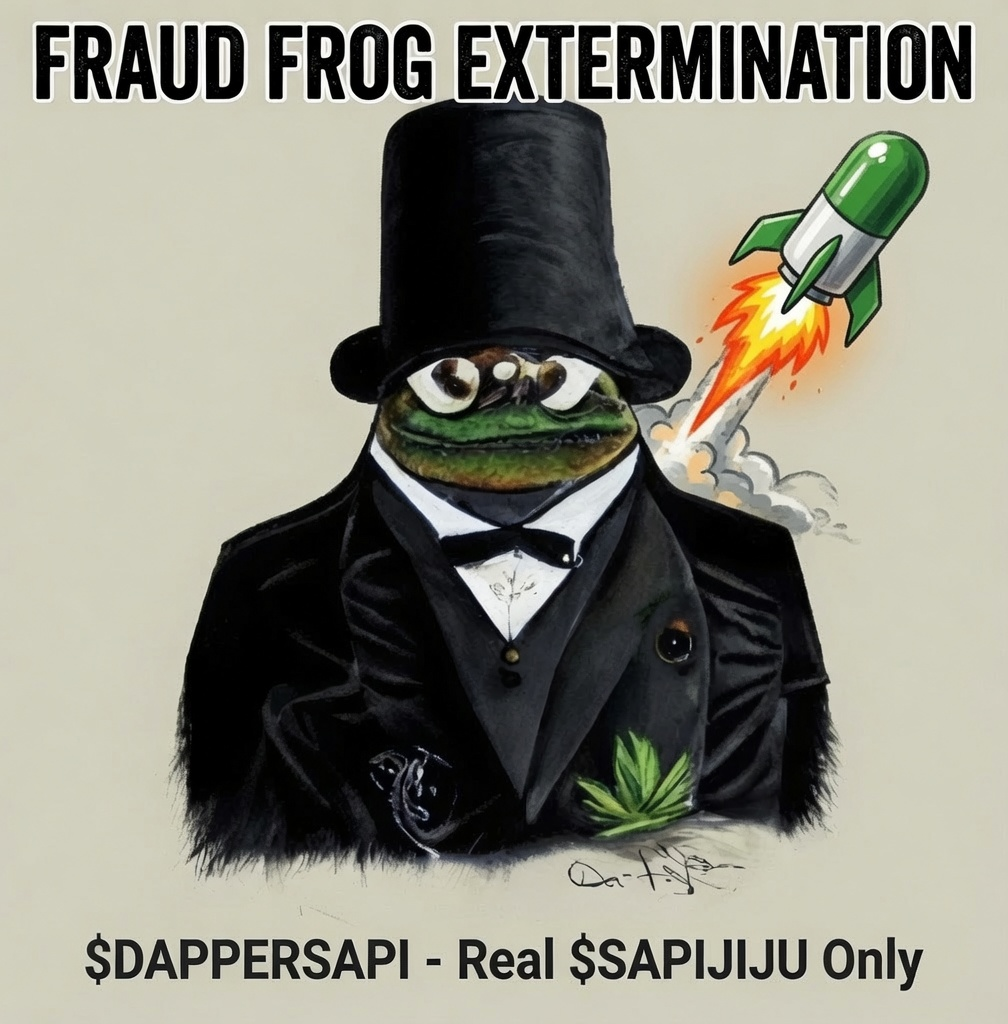
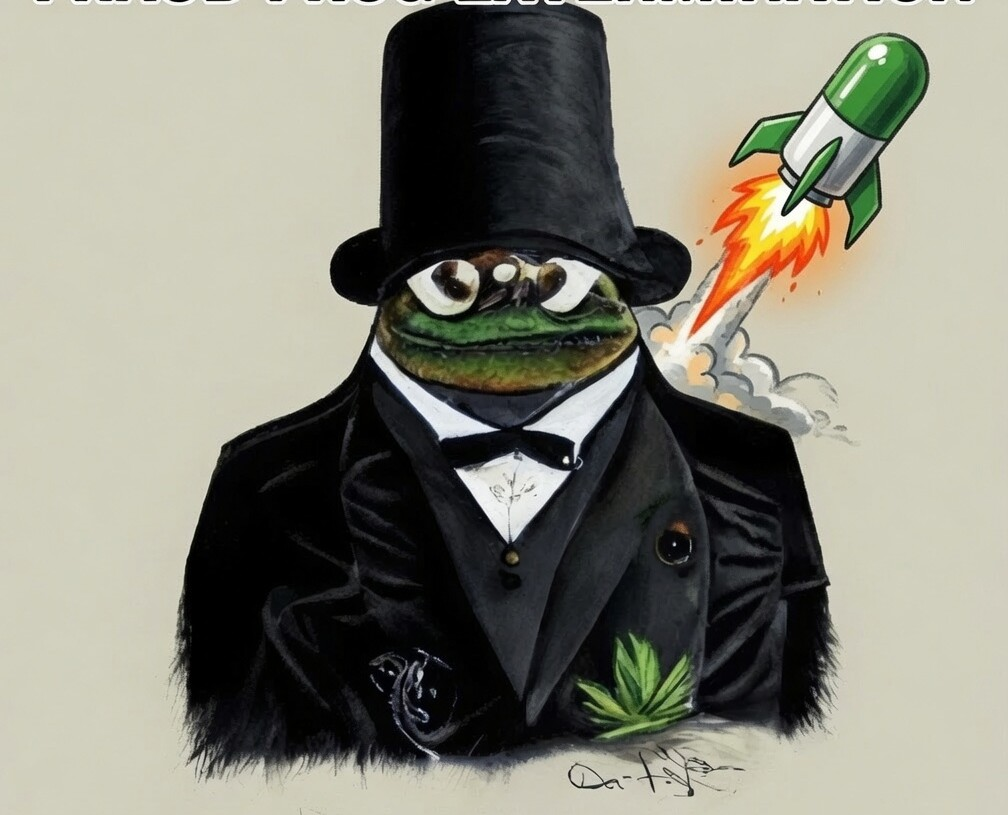
Museum-matte media fit + Fraud Frog art cleanup
Artwork of any aspect ratio now fits its box without cropping: a
MatteMedia treatment renders the image blurred and dimmed as its own
backdrop with the fully-contained original above it, with a graceful
chest-art fallback for broken sources. Applied to the games hub cards,
homepage episodes rail, auction board cards, consign live preview and
the lot detail viewer — arbitrary seller images can no longer crop
subjects or break layouts.

Fraud Frog Exterminator key art re-cropped to remove the baked-in title
and foreign token text ($DAPPERSAPI/$SAPIJIJU) from the original
asset — the dapper frog stands alone now.

diff --git a/src/app/auctions/[id]/page.tsx b/src/app/auctions/[id]/page.tsx
@@ -98,21 +98,22 @@ export default function AuctionDetailPage({
       <div className="grid md:grid-cols-[minmax(0,1.15fr)_minmax(0,1fr)] gap-6 items-start">
         {/* Media theater */}
         <div className="panel panel-glow overflow-hidden">
-          <div className="relative" style={{ background: "oklch(0.09 0.006 270)" }}>
-            {auction.imageUrl ? (
-              <LightboxImage
-                src={auction.imageUrl}
-                alt={auction.title}
-                className="w-full aspect-[4/3] object-cover"
-              />
-            ) : (
-              // eslint-disable-next-line @next/next/no-img-element
-              <img
-                src="/art/art-empty-chest.jpg"
-                alt=""
-                className="w-full aspect-[4/3] object-cover opacity-80"
-              />
-            )}
+          <div
+            className="relative aspect-[4/3] overflow-hidden"
+            style={{ background: "oklch(0.09 0.006 270)" }}
+          >
+            {/* eslint-disable-next-line @next/next/no-img-element */}
+            <img
+              src={auction.imageUrl ?? "/art/art-empty-chest.jpg"}
+              alt=""
+              aria-hidden
+              className="media-matte-bg"
+            />
+            <LightboxImage
+              src={auction.imageUrl ?? "/art/art-empty-chest.jpg"}
+              alt={auction.title}
+              className="media-matte-fg"
+            />
             <div
               className="absolute inset-2.5 pointer-events-none rounded-md"
               style={{ border: "1px solid oklch(1 0 0 / 0.08)" }}

diff --git a/src/app/auctions/apply/page.tsx b/src/app/auctions/apply/page.tsx
@@ -3,6 +3,7 @@
 import { useEffect, useState } from "react";
 import { useSession } from "@/components/session";
 import { PageHero } from "@/components/hero";
+import { MatteMedia } from "@/components/matte-media";
 import { Notice } from "@/components/ui";
 import { fmtRibbit } from "@/lib/client-config";
 
@@ -187,17 +188,7 @@ export default function ApplyPage() {
             <div className="kicker mb-2.5">Live preview — how bidders see it</div>
             <div className="lot-card">
               <div className="card-media">
-                {form.imageUrl ? (
-                  // eslint-disable-next-line @next/next/no-img-element
-                  <img
-                    src={form.imageUrl}
-                    alt=""
-                    onError={(e) => ((e.target as HTMLImageElement).style.display = "none")}
-                  />
-                ) : (
-                  // eslint-disable-next-line @next/next/no-img-element
-                  <img src="/art/art-empty-chest.jpg" alt="" className="opacity-60" />
-                )}
+                <MatteMedia src={form.imageUrl || "/art/art-empty-chest.jpg"} />
                 <span className="badge badge-portal absolute top-2 right-2">preview</span>
               </div>
               <div className="card-body">

diff --git a/src/components/matte-media.tsx b/src/components/matte-media.tsx
@@ -1,0 +1,40 @@
+"use client";
+
+// Museum matting for artwork of any aspect ratio: the image itself, blurred
+// and dimmed, fills the box behind the fully-visible contained original.
+// Broken/unreachable sources fall back to the house chest art. Drop inside a
+// positioned container (e.g. .card-media).
+import { useEffect, useState } from "react";
+
+const FALLBACK = "/art/art-empty-chest.jpg";
+
+export function MatteMedia({
+  src,
+  alt = "",
+  loading = "lazy",
+}: {
+  src: string;
+  alt?: string;
+  loading?: "lazy" | "eager";
+}) {
+  const [broken, setBroken] = useState(false);
+  useEffect(() => {
+    // eslint-disable-next-line react-hooks/set-state-in-effect
+    setBroken(false);
+  }, [src]);
+  const shown = broken || !src ? FALLBACK : src;
+  return (
+    <>
+      {/* eslint-disable-next-line @next/next/no-img-element */}
+      <img src={shown} alt="" aria-hidden className="media-matte-bg" loading={loading} />
+      {/* eslint-disable-next-line @next/next/no-img-element */}
+      <img
+        src={shown}
+        alt={alt}
+        className="media-matte-fg"
+        loading={loading}
+        onError={() => setBroken(true)}
+      />
+    </>
+  );
+}

diff --git a/src/app/auctions/page.tsx b/src/app/auctions/page.tsx
@@ -8,6 +8,7 @@ import { PageHero } from "@/components/hero";
 import { Countdown, Notice } from "@/components/ui";
 import { LotCardSkeleton } from "@/components/skeletons";
 import { EmptyState } from "@/components/empty-state";
+import { MatteMedia } from "@/components/matte-media";
 import { fmtRibbit } from "@/lib/client-config";
 
 type AuctionRow = {
@@ -31,13 +32,9 @@ function LotCard({ a, now }: { a: AuctionRow; now: number }) {
     <Link href={`/auctions/${a.id}`} className="lot-card group">
       <div className="card-media">
         {a.imageUrl ? (
-          // eslint-disable-next-line @next/next/no-img-element
-          <img src={a.imageUrl} alt={a.title} loading="lazy" />
+          <MatteMedia src={a.imageUrl} alt={a.title} />
         ) : (
-          <div className="w-full h-full flex items-center justify-center">
-            {/* eslint-disable-next-line @next/next/no-img-element */}
-            <img src="/art/art-empty-chest.jpg" alt="" className="opacity-60" loading="lazy" />
-          </div>
+          <MatteMedia src="/art/art-empty-chest.jpg" />
         )}
         {urgent && (
           <span className="badge badge-urgent absolute top-2 right-2">

diff --git a/src/app/page.tsx b/src/app/page.tsx
@@ -4,6 +4,7 @@ import { Reveal } from "@/components/reveal";
 import { VaultIntro } from "@/components/vault-intro";
 import { ActivityTicker } from "@/components/activity-ticker";
 import { CopyChip } from "@/components/copy-chip";
+import { MatteMedia } from "@/components/matte-media";
 import { prisma } from "@/lib/db";
 import { getTreasuryStats } from "@/lib/solana";
 import { fromRaw } from "@/lib/config";
@@ -179,8 +180,7 @@ export default async function Home() {
             const card = (
               <div className="lot-card h-full">
                 <div className="card-media !aspect-square">
-                  {/* eslint-disable-next-line @next/next/no-img-element */}
-                  <img src={e.image} alt={e.title} loading="lazy" />
+                  <MatteMedia src={e.image} alt={e.title} />
                   {e.href ? (
                     <span className="badge badge-live absolute top-2 right-2">
                       <span className="live-dot" /> Live

diff --git a/src/app/games/page.tsx b/src/app/games/page.tsx
@@ -5,6 +5,7 @@ import { useEffect, useState } from "react";
 import { useSession } from "@/components/session";
 import { useChain } from "@/components/use-chain";
 import { PageHero } from "@/components/hero";
+import { MatteMedia } from "@/components/matte-media";
 import { Notice } from "@/components/ui";
 import { CLIENT_CONFIG } from "@/lib/client-config";
 
@@ -127,8 +128,7 @@ export default function GamesPage() {
           {GAMES.map((g) => (
             <Link key={g.href} href={g.href} className="lot-card group">
               <div className="card-media">
-                {/* eslint-disable-next-line @next/next/no-img-element */}
-                <img src={g.image} alt="" loading="lazy" />
+                <MatteMedia src={g.image} />
                 <span className="badge absolute top-2 right-2">{g.badge}</span>
               </div>
               <div className="card-body">

diff --git a/src/app/globals.css b/src/app/globals.css
@@ -910,6 +910,26 @@ h1, h2, h3, h4 {
   z-index: 2;
 }
 
+/* Museum matte: blurred self-backdrop + fully contained artwork. Fits any
+   aspect ratio into any box without cropping the subject. */
+.media-matte-bg {
+  position: absolute !important;
+  inset: 0;
+  width: 100%;
+  height: 100%;
+  object-fit: cover !important;
+  filter: blur(22px) saturate(0.85) brightness(0.45);
+  transform: scale(1.18);
+}
+.card-media .media-matte-fg,
+.media-matte-fg {
+  position: relative;
+  width: 100%;
+  height: 100%;
+  object-fit: contain !important;
+  z-index: 1;
+}
+
 /* Etched double-border for the most important panels. */
 .panel-etched {
   position: relative;
